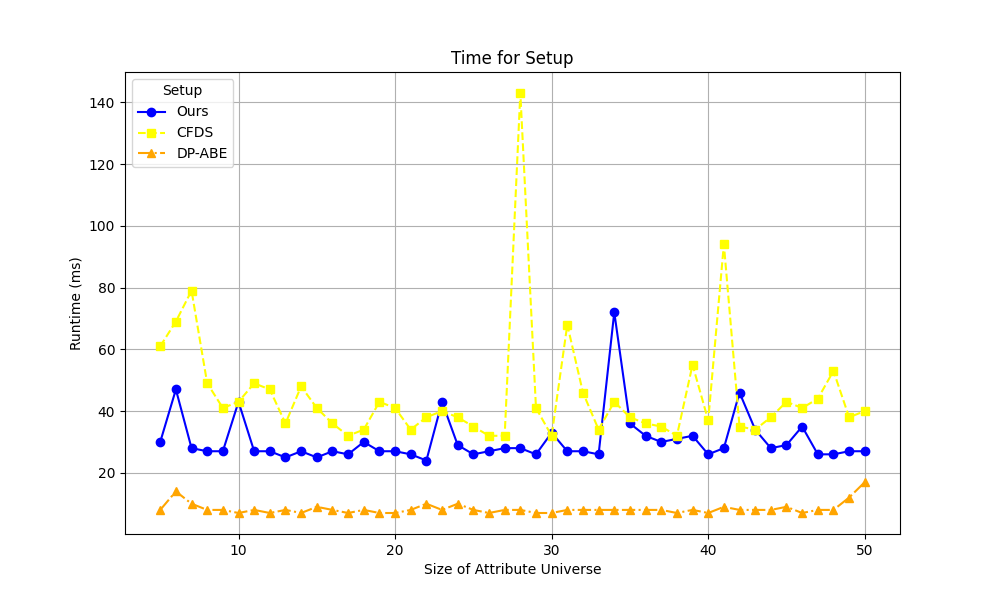
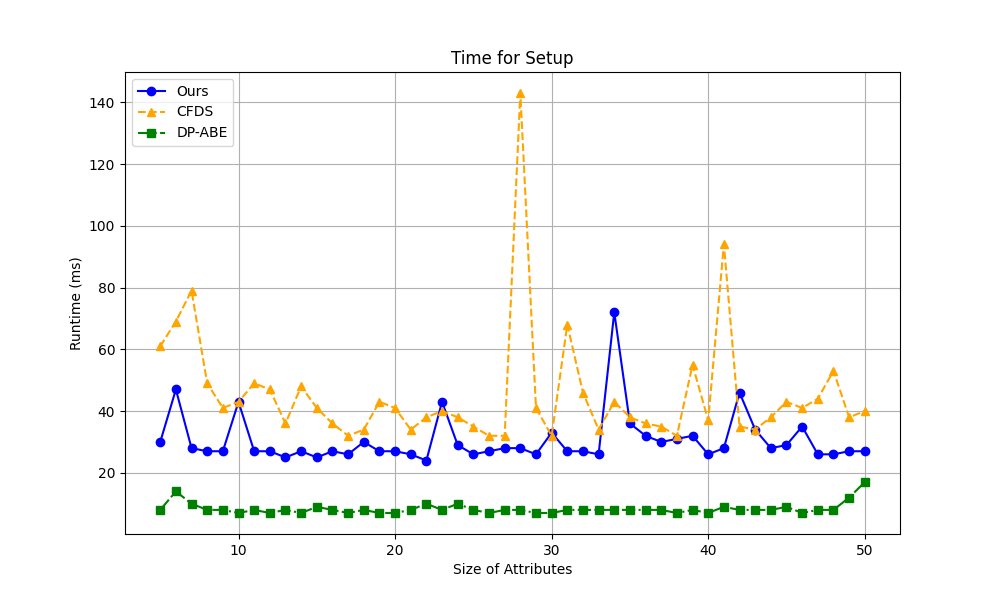
数据与图集成

diff --git a/data/combined-data/compare change.py b/data/combined-data/compare change.py
@@ -1,0 +1,76 @@
+import matplotlib.pyplot as plt
+
+# Ours data
+setup_times_ours = [6, 7, 7, 8, 8]
+keygen_times_ours = [164, 290, 430, 562, 671]
+encryption_times_ours = [162, 289, 408, 551, 672]
+decryption_times_ours = [91, 180, 268, 351, 429]
+attribute_counts_ours = [10, 20, 30, 40, 50]
+
+# Yang et al. data
+setup_times_yang = [78, 148, 305, 540, 849]
+keygen_times_yang = [344, 628, 926, 1228, 1521]
+encryption_times_yang = [379, 689, 1016, 1350, 1676]
+decryption_times_yang = [181, 337, 500, 673, 828]
+
+# Pratish et al. data
+setup_times_pratish = [1288, 3573, 7944, 13950, 21854]
+keygen_times_pratish = [519, 1809, 4110, 7068, 10917]
+encryption_times_pratish = [160, 334, 476, 633, 790]
+decryption_times_pratish = [615, 2301, 5234, 8927, 14612]
+
+# Attribute counts (common for all)
+attribute_counts = [10, 20, 30, 40, 50]
+
+# Create a figure for plotting
+plt.figure(figsize=(12, 10))
+
+# Plot Setup Times
+plt.subplot(2, 2, 1)  # 2x2 grid, position 1
+plt.plot(attribute_counts_ours, setup_times_ours, marker='o', color='b', label="Ours (Setup Times)", linestyle='-', markersize=8)
+plt.plot(attribute_counts, setup_times_yang, marker='s', color='g', label="Yang et al. (Setup Times)", linestyle='--', markersize=8)
+plt.plot(attribute_counts, setup_times_pratish, marker='^', color='r', label="Pratish et al. (Setup Times)", linestyle='-.', markersize=8)
+plt.title("Setup Times vs Attribute Count")
+plt.xlabel("Attribute Count")
+plt.ylabel("Time (ms)")
+plt.grid(True)
+plt.legend()
+
+# Plot Keygen Times
+plt.subplot(2, 2, 2)  # 2x2 grid, position 2
+plt.plot(attribute_counts_ours, keygen_times_ours, marker='o', color='b', label="Ours (Keygen Times)", linestyle='-', markersize=8)
+plt.plot(attribute_counts, keygen_times_yang, marker='s', color='g', label="Yang et al. (Keygen Times)", linestyle='--', markersize=8)
+plt.plot(attribute_counts, keygen_times_pratish, marker='^', color='r', label="Pratish et al. (Keygen Times)", linestyle='-.', markersize=8)
+plt.title("Keygen Times vs Attribute Count")
+plt.xlabel("Attribute Count")
+plt.ylabel("Time (ms)")
+plt.grid(True)
+plt.legend()
+
+# Plot Encryption Times
+plt.subplot(2, 2, 3)  # 2x2 grid, position 3
+plt.plot(attribute_counts_ours, encryption_times_ours, marker='o', color='b', label="Ours (Encryption Times)", linestyle='-', markersize=8)
+plt.plot(attribute_counts, encryption_times_yang, marker='s', color='g', label="Yang et al. (Encryption Times)", linestyle='--', markersize=8)
+plt.plot(attribute_counts, encryption_times_pratish, marker='^', color='r', label="Pratish et al. (Encryption Times)", linestyle='-.', markersize=8)
+plt.title("Encryption Times vs Attribute Count")
+plt.xlabel("Attribute Count")
+plt.ylabel("Time (ms)")
+plt.grid(True)
+plt.legend()
+
+# Plot Decryption Times
+plt.subplot(2, 2, 4)  # 2x2 grid, position 4
+plt.plot(attribute_counts_ours, decryption_times_ours, marker='o', color='b', label="Ours (Decryption Times)", linestyle='-', markersize=8)
+plt.plot(attribute_counts, decryption_times_yang, marker='s', color='g', label="Yang et al. (Decryption Times)", linestyle='--', markersize=8)
+plt.plot(attribute_counts, decryption_times_pratish, marker='^', color='r', label="Pratish et al. (Decryption Times)", linestyle='-.', markersize=8)
+plt.title("Decryption Times vs Attribute Count")
+plt.xlabel("Attribute Count")
+plt.ylabel("Time (ms)")
+plt.grid(True)
+plt.legend()
+
+# Adjust layout for better spacing
+plt.tight_layout()
+
+# Show the plots
+plt.show()

diff --git a/data/combined-data/combine.py b/data/combined-data/combine.py
@@ -1,0 +1,88 @@
+import pandas as pd
+import matplotlib.pyplot as plt
+
+# 调整图形尺寸和布局参数
+plt.rcParams.update({'font.size': 8})  # 减小字体大小
+fig, axes = plt.subplots(4, 2, figsize=(12, 24))  # 改为4行2列布局
+plt.subplots_adjust(hspace=0.4, wspace=0.3)  # 增加子图间距
+
+# List of CSV files and their titles
+files = [
+    ('1setup-data.csv', 'Setup Time'),
+    ('2enkeygen-data.csv', 'Encryption Key Generation Time'),
+    ('3dekeyGen-data.csv', 'Decryption Key Generation Time'),
+    ('4encrypt-data.csv', 'Encryption Time'),
+    ('5verify-data.csv', 'Verify Time'),
+    ('6search-data.csv', 'Search Time'), 
+    ('7reenc-data.csv', 'Re-encryption Time'),
+    ('8dec-data.csv', 'Decryption Time')
+]
+
+# Define colors and markers for different schemes
+styles = {
+    'Ours': ('-', 'o', 'blue'),
+    'DP-ABE': ('--', '^', 'orange'),
+    'CFDS': (':', 's', 'green'),
+    'MIBE': ('-.', 'D', 'red'),
+    'CP-ABE': ('--', 'v', 'purple'),
+    'PRE-SE': ('--', '*', 'brown')  # 添加缺失的方案
+}
+
+# Plot each subplot
+for idx, (file_name, title) in enumerate(files):
+    row = idx // 2  # 修改为2列布局
+    col = idx % 2
+    ax = axes[row, col]
+    
+    try:
+        # Read CSV data and print first column for debugging
+        data = pd.read_csv(f'../compared-data/{file_name}')
+        print(f"\nFile: {file_name}")
+        print("Schemes in CSV:", data.iloc[:, 0].values)
+        
+        # Get schemes from first column (excluding header)
+        schemes = data.iloc[:, 0].values
+        
+        # Strip whitespace and handle potential encoding issues
+        schemes = [str(s).strip() for s in schemes]
+        print("Processed schemes:", schemes)
+        
+        # Create x range based on actual data columns
+        x_range = range(4, 4 + len(data.columns) - 1)
+        
+        # Plot each scheme's data
+        for scheme in schemes:
+            # Debug print for each scheme
+            print(f"Processing scheme: '{scheme}'")
+            if scheme in styles:
+                print(f"Found style for: {scheme}")
+                scheme_data = data[data.iloc[:, 0].str.strip() == scheme]
+                if not scheme_data.empty:
+                    values = scheme_data.iloc[0, 1:].values
+                    line_style, marker, color = styles[scheme]
+                    ax.plot(x_range, values,
+                           label=scheme,
+                           linestyle=line_style,
+                           marker=marker,
+                           color=color,
+                           markersize=4)
+                else:
+                    print(f"No data found for scheme: {scheme}")
+
+        # Customize subplot with adjusted parameters
+        ax.set_title(f"({chr(97+idx)}) {title}", pad=10, fontsize=10)
+        ax.grid(True, alpha=0.3)  # 降低网格线透明度
+        ax.set_xlabel("Size of Attributes", fontsize=8)
+        ax.set_ylabel("Runtime (ms)", fontsize=8)
+        ax.tick_params(axis='both', labelsize=8)  # 调整刻度标签大小
+        ax.legend(loc="upper left", fontsize=7, framealpha=0.7)
+        
+    except Exception as e:
+        print(f"Error processing {file_name}: {str(e)}")
+        continue  # 继续处理下一个文件
+
+# Adjust layout
+plt.tight_layout()
+# 保存时确保有足够的边距
+plt.savefig('combined_plots.png', dpi=300, bbox_inches='tight', pad_inches=0.2)
+plt.show()

diff --git a/data/compared-data/draw.py b/data/compared-data/draw.py
@@ -2,40 +2,47 @@ import pandas as pd
 import matplotlib.pyplot as plt
 
 # Load the dataset
-file_path = 'setup-data.csv'
+file_path = '3dekeyGen-data.csv'
 data = pd.read_csv(file_path)
 
 # Set up the plot
 plt.figure(figsize=(10, 6))
 
-# Define a dictionary for different line styles and markers
-line_styles = {
-    'Ours': ('-', 'o', 'blue'),  # Solid line with circle marker and blue color
-    'DP-ABE': ('-.', '^', 'orange'),  # Dash-dot line with triangle marker and orange color
-    'CFDS': ('--', 's', 'yellow')  # Dotted line and square marker with yellow color
-}
+# Define colors and markers we can cycle through
+colors = ['blue', 'orange', 'green', 'red', 'purple', 'brown', 'pink']
+markers = ['o', '^', 's', 'D', 'v', '>', '<']
+line_styles = ['-', '--', '-.', ':']
 
-# Plot the data for each setup
-for setup in data['Setup']:
-    print(f"Plotting data for setup: {setup}")
-    setup_data = data[data['Setup'] == setup]
-    sizes = setup_data.iloc[0, 1:].values
+# Get unique algorithm names from first column (excluding header)
+algorithms = data.iloc[:, 0].unique()
+
+# Get the actual number of data points
+num_points = len(data.columns) - 1  # Subtract 1 for the algorithm name column
+x_range = range(4, 4 + num_points)  # Adjust range to match data points
+
+# Plot the data for each algorithm
+for idx, algorithm in enumerate(algorithms):
+    print(f"Plotting data for algorithm: {algorithm}")
+    algo_data = data[data.iloc[:, 0] == algorithm]
+    sizes = algo_data.iloc[0, 1:].values
     
-    # Unpack three values
-    linestyle, marker, color = line_styles[setup]
-    plt.plot(range(5, 51), sizes, 
-            label=setup,
-            linestyle=linestyle, 
+    # Cycle through styling options
+    color = colors[idx % len(colors)]
+    marker = markers[idx % len(markers)]
+    line_style = line_styles[idx % len(line_styles)]
+    
+    plt.plot(x_range, sizes,  # Changed to use x_range
+            label=algorithm,
+            linestyle=line_style,
             marker=marker,
             color=color,
             markersize=6)
 
-
 # Add title and labels
-plt.title("Time for Setup")
-plt.xlabel("Size of Attribute Universe")
+plt.title("Time for Decryption Key Generation")
+plt.xlabel("Size of Attributes")
 plt.ylabel("Runtime (ms)")
-plt.legend(title="Setup", loc="upper left")
+plt.legend(loc="upper left")
 
 # Show the plot
 plt.grid(True)
